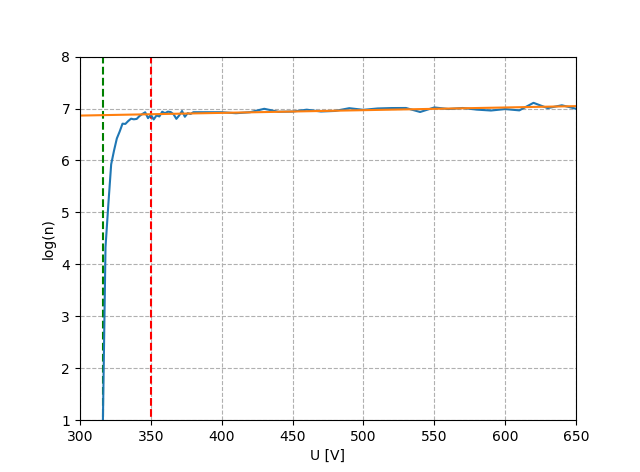
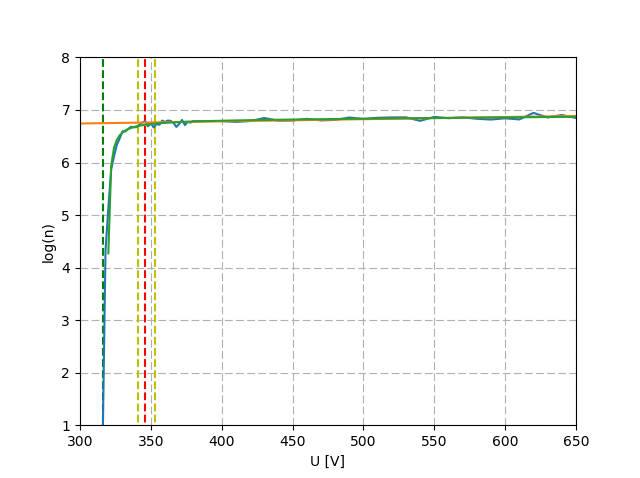
GM fertig?

diff --git a/T07/Protokoll/Gasdetektorenmo.tex b/T07/Protokoll/Gasdetektorenmo.tex
@@ -174,7 +174,7 @@ $n_{1\mu s}$ & $10603 \pm 103$ & $5259\pm 73$ \\
 \hline 
 $n_{2ms}$ & $8248\pm 91$ & $4599\pm 68$ \\
 \hline 
-$\tau [ms]$ & $1.882\pm 0.002 $ & $1.877\pm 0.004$ \\
+$\tau [\mu s]$ & $324\pm 97 $ & $1.877\pm 0.004$ \\
 \hline
 \end{tabular}
 \label{tab:Totzeitstufe}
@@ -196,14 +196,51 @@ Eine gewichtete Mittelung der $\tau$ ergibt:
 \subsubsection{Charakteristik}
 \begin{figure}
 \centering
-\includegraphics[scale=0.5]{Bilder/GMlinear.PNG}
-\includegraphics[scale=0.5]{Bilder/GMlog.PNG}
+\includegraphics[scale=1]{Bilder/GMlinear.PNG}
+\includegraphics[scale=1]{Bilder/GMlog.PNG}
 \caption{...}
 \label{fig:GMCharakteristik}
 \end{figure}
-Die Ergebnisse der Charakteristikmessung sind in Abbildung \ref{fig:GMCharakteristik} dargestellt.\\
-Mit zunehmender Spannung steigt die Messrate exponentiell, da immer mehr Ereignisse mit kleineren Energien registriert werden. Daher Müssen die Daten noch logarythmisiert werden, um das Plateau zu erkennen.\\
-Nun wird an das Plateau ein Geradenfit angepasst und visuell abgeschätzt, wenn diese Gerade erreicht wird. Der so 
+Die Ergebnisse der Charakteristikmessung sind in Abbildung \ref{fig:GMCharakteristik} dargestellt. Diese wurden bereits mithlife von Gleichung \ref{Auslosungszeit} von der Totzeit bereinigt.
+Außerdem wurde mithilfe der Rauschmessung der Offset des Untergrundrauschens abgezogen.\\
+Mit zunehmender Spannung steigt die Messrate exponentiell, da immer mehr Ereignisse mit kleineren Energien registriert werden. Daher Müssen die Daten noch logarythmisiert werden, um das Plateau erkennen zu können.\\
+Der relativ große Fehler auf die Totzeit ist dabei von systematischer Natur, er verschiebt also die Werte in die gleiche Richtung. Da das Plateau in der logarythmischen Sklaierung eben ist, verschiebt er die Werte um nahezu den gleichen Faktor, womit sich die Position der Einsatz- und Geiger-Spannung nicht nennenswert ändert. Der Fehler kann also für die Bestimmung dieser vernachlässigt werden.
+
+\paragraph{Bestimmung der Geiger-Spannung}
+\begin{figure}
+\centering
+\includegraphics[scale=1]{Bilder/GMGeradenfit.PNG}
+\caption{...}
+\label{fig:GMGeradenfit}
+\end{figure}
+
+\begin{figure}
+\centering
+\includegraphics[scale=1]{Bilder/GMKurvenfit.PNG}
+\caption{...}
+\label{fig:GMKurvenfit}
+\end{figure}
+
+Anhand der logarythmisierten Daten wird nun die Geiger-Spannung $U_G$ bestimmt. Dazu  wurde als erstes abgeschätzt, dass das Plateau spätestens bei $\SI{360}{V}$ erreicht wird und ein Geradenfit an die Daten überhalb dieser Spannung angepasst. Dieser ist in Abbildung \ref{fig:GMGeradenfit} zu sehen.\\
+Um nun den Anfang des Plateaus bestimmen zu können, wird außerdem noch ein Fit der Form
+\begin{equation*}
+y = \dfrac{a}{x+d} + b\cdot x + c
+\end{equation*}
+an die Daten angefitted. Es wurde hier eine $\dfrac{1}{x}$ Funktion gewählt, da es wegen der wenigen Datenpunkte, die groß von der Plateaugeraden abweichen, sehr schwierig gewesen ist eine Funktion an die Daten anzupassen und diese Funktion die einzige ist, bei der der Fit geglückt ist und die Umgebung der Geigerfrequenz gut beschreibt. Das Ergebnis ist in Abbildung \ref{fig:GMKurvenfit} dargestellt.\\
+$U_G$ wird bestimmt, indem die Spannung gesucht wird, ab der die beiden Anpassungen innerhalb ihrer Unsicherheiten überseinstimmen. Es muss aber beachtet werden, dass die Anpassungen korrelieren, da sie aus demselben Datensatz stammen. Der Einfachheit halber wird angenommen, dass der Fehler des Linearen Fits vollständig mit dem des$\dfrac{1}{x}$-Fit korreliert, der denselben linearen Term enthält. Ist der tatsächliche lineare Fit beispielsweise leicht nach oben verschoben, so ist mit dieser Annahme der echte $\dfrac{1}{x}$-Fit ebenfalls um den gleichen Faktor nach oben verschoben. Somit ergibt sich der Abstandsfehler zwischen den beiden Fits als quadratische Differenz der beiden Unsicherheiten.\\
+Den Fehler auf $U_G$ erhält man aus der Verschiebemethode. Die beiden Fits werden also um ihre Fehler nach oben oder unten verschoben und ein neuer Wert für $U_G$ mit der oben beschriebenen Methode bestimmt.\\
+Mit dieser Methode ergibt sich:
+\begin{equation*}
+\boxed{U_G = (346_{-5}^{+7})\si{V}}
+\end{equation*}
+\paragraph{Bestimmung der Einsatz-Spannung}
+Im Gegensatz zu $U_G$ lässt sich die Einsatz-Spannung $U_E$ direkt aus den Daten ablesen, da diese Spannung sich genau an der Stelle befindet, an der zum ersten mal ein Puls gemessen wird. Dies war der Fall bei
+\begin{equation*}
+\boxed{U_G = \SI{316\pm 1}{V}}
+\end{equation*}
+Der Fehler ergibt sich durch die Einstellgenauigkeit der Hochspannung.
+
+\subsubsection{Zusammenfassung}
 
 \subsection{Proportionalzähler}
 

diff --git a/T07/Auswertung/GM/GmCharakteristik.py b/T07/Auswertung/GM/GmCharakteristik.py
@@ -42,28 +42,46 @@ x = np.array(x)
 y = np.array(y)
 
 #Totzeitkorrektur
-ydot =y/10
-y = y/(1.-ydot*0.0018)
 y = y-1
+ydot =y/10
+y = y/(1.-ydot*(0.000324))
 
 logy = np.log(y)
-plateau = 27
+plateau = 32
 xplateau = x[plateau:]
 yplateau = y[plateau:]
+logyplateau = logy[plateau:]
 UE = 316
-UG = 350
+UG = 353
 
 
 sy = np.sqrt(x)
 slogy = 1./y * sy
 
 def f(a,x):
-    return a[0]+a[1]*x+a[2]*x**2+a[3]*x**3+a[4]*x**4+a[5]*x**5
+    return a[0]/(x-a[3])+a[1]*x+a[2]
 
-#var,svar,chi = p.fitte_bel_function(x[11:34],logy[11:34],slogy[11:34],f,[8,-100,10000,300,1,1,1])
+x1 = 11
+x2 = 70
+
+var,svar,chi, corr,out= p.fitte_bel_function(x[x1:x2],logy[x1:x2],slogy[x1:x2],f,[-1000,0,7,300])
+print var, chi
+a,sa,b,sb,chi2,corr2 = p.lineare_regression(xplateau,np.log(yplateau),slogy[plateau:])
+xw= np.arange(325,500)
+f2 = f(var,xw)
+f1 = a*xw + b
+df1 = np.sqrt((xw*sa)**2+sb**2+2*corr2*sa*sb)
+df2 = np.sqrt((svar[0]/(xw-var[3]))**2 + (xw*svar[1])**2 + svar[2]**2 + (var[0]/(xw-var[3])**2 * svar[3])**2-(xw*sa)**2-sb**2)
+df3 = np.sqrt((svar[0]/(xw-var[3]))**2 + (var[0]/(xw-var[3])**2 * svar[3])**2)
+sigd = np.sqrt(df2**2)#+df1**2-2*np.corrcoef(f1,f2)[0][1]*df1*df2)
+UG = np.argmin(abs(abs((f2)-(f1))-sigd)) + 325
+print UG
+UGup = np.argmin(abs(abs((f2+df2)-(f1+df1))-sigd)) + 325
+UGdown = np.argmin(abs(abs((f2-df2)-(f1-df1))-sigd)) + 325
+print UG,UGup,UGdown
+
 
 if 1:#logplot
-    a,sa,b,sb,chi,rest = p.lineare_regression(xplateau,np.log(yplateau),slogy[plateau:])
     plt.figure(1)
     ax = plt.subplot(111)
     ax.set_xlabel("U [V]")
@@ -72,11 +90,55 @@ if 1:#logplot
     ax.grid(linestyle='--')
     plt.plot(x,logy)
     plt.plot(x,a*x+b)
-   # plt.plot(x[11:34],f(var,x[11:34]))
+    plt.plot(x[x1+1:x2],f(var,x[x1+1:x2]))
     plt.vlines(UE,0,8,linestyle='--',color = 'g')
     plt.vlines(UG,0,8,linestyle='--',color = 'r')
+    plt.vlines(UGup,0,8,linestyle='--',color = 'y')
+    plt.vlines(UGdown,0,8,linestyle='--',color = 'y')
     
-if 1:#plot
+if 1:
+    plt.figure(3)
+    ax1=plt.subplot(211)
+    ax1.axis([300,650,4,7.5])
+    ax1.set_ylabel("U[V]")
+    plt.figtext(0.6,0.65,'Modell: y = a*x+b'+
+                '\n a= '+str(np.round(a,5))+' +/- '+str(np.round(sa,5))+'\n'
+                +' b= '+str(np.round(b,2))+' +/- '+str(np.round(sb,2))+' \n'
+                +'$\chi ^2 / ndof$= ' + str(np.round(chi2/len(xplateau), 2)))
+    plt.errorbar(x[11:],logy[11:],yerr = slogy[11:],fmt='.')
+    plt.plot(x,a*x+b,color = 'r')
+    ax2=plt.subplot(212,sharex=ax1)
+    ax2.set_xlabel("t[s]")
+    ax2.set_ylabel("Residuen")
+    plt.errorbar(xplateau,logyplateau-(a*xplateau+b),yerr = slogy[plateau:],fmt='.')
+    x_r = np.array(plt.xlim())
+    y_r = np.array([0, 0])
+    plt.plot(x_r, y_r, color='r')
+    
+if 1:
+    plt.figure(4)
+    ax1=plt.subplot(211)
+    ax1.axis([300,650,4,7.5])
+    ax1.set_ylabel("U[V]")
+    plt.figtext(0.5,0.6,'Modell: y = a/(x-d) + b*x + c \n'+
+                'a= '+str(np.round(var[0],2))+' +/- '+str(np.round(svar[0],2))+'\n'
+                +'b= '+str(np.round(var[1],5))+' +/- '+str(np.round(svar[1],5))+'\n'
+                +'c= '+str(np.round(var[2],2))+' +/- '+str(np.round(svar[2],2))+'\n'
+                +'d= '+str(np.round(var[3],2))+' +/- '+str(np.round(svar[3],2))+'\n'
+                +'$\chi ^2 / ndof$= ' + str(np.round(chi, 2)))
+    plt.errorbar(x[11:],logy[11:],yerr = slogy[11:],fmt='.')
+    plt.plot(x[x1+1:x2],f(var,x[x1+1:x2]),color = 'g')
+    
+    ax2=plt.subplot(212,sharex=ax1)
+    ax2.set_xlabel("t[s]")
+    ax2.set_ylabel("Residuen")
+    plt.errorbar(x[x1+2:x2],logy[x1+2:x2]-f(var,x[x1+2:x2]),yerr = slogy[x1+2:x2],fmt='.')
+    x_r = np.array(plt.xlim())
+    y_r = np.array([0, 0])
+    plt.plot(x_r, y_r, color='r')
+
+
+if 0:#plot
     a,sa,b,sb,chi,rest = p.lineare_regression(xplateau,yplateau,sy[plateau:])
     plt.figure(2)
     ax = plt.subplot(111)

diff --git a/T07/Auswertung/GM/PropChAm.py b/T07/Auswertung/GM/PropChAm.py
@@ -29,14 +29,48 @@ file.close()
 x = np.array(x)
 y = np.array(y)
 logy = np.log(y)
-plateau = 38
+plateau = 36
 plateauend = 58
 xplateau = x[plateau:plateauend]
 yplateau = y[plateau:plateauend]
+logyplateau = logy[plateau:plateauend]
 
-sy = np.sqrt(x)
+sy = np.sqrt(y)
 slogy = 1./y * sy
 
+
+a,sa,b,sb,chi,rest = p.lineare_regression(xplateau,np.log(yplateau),slogy[plateau:plateauend])
+if 1:
+    plt.figure(3)
+    ax1=plt.subplot(211)
+    ax1.axis([300,1300,9,10])
+    ax1.set_ylabel("U[V]")
+    plt.figtext(0.6,0.65,'Modell: y = a*x+b'+
+                '\n a= '+str(np.round(a,6))+' +/- '+str(np.round(sa,6))+'\n'
+                +' b= '+str(np.round(b,3))+' +/- '+str(np.round(sb,3))+' \n'
+                +'$\chi ^2 / ndof$= ' + str(np.round(chi/len(xplateau), 2)))
+    plt.errorbar(x[11:],logy[11:],yerr = slogy[11:],fmt='.')
+    plt.plot(x,a*x+b,color = 'r')
+    ax2=plt.subplot(212,sharex=ax1)
+    ax2.set_xlabel("t[s]")
+    ax2.set_ylabel("Residuen")
+    plt.errorbar(xplateau,logyplateau-(a*xplateau+b),yerr = slogy[plateau:plateauend],fmt='.')
+    x_r = np.array(plt.xlim())
+    y_r = np.array([0, 0])
+    plt.plot(x_r, y_r, color='r')
+    
+
+if 1:#logplot
+    
+    plt.figure(1)
+    ax = plt.subplot(111)
+    ax.set_xlabel("U [V]")
+    ax.set_ylabel("log(n)")
+    ax.axis([250,2000,8,12])
+    ax.grid(linestyle='--')
+    plt.plot(x,logy)
+    plt.plot(x,a*x+b)
+    
 if 1:#plot
     a,sa,b,sb,chi,rest = p.lineare_regression(xplateau,yplateau,sy[plateau:plateauend])
     plt.figure(2)
@@ -46,16 +80,4 @@ if 1:#plot
     ax.grid(linestyle='--')
     ax.axis([250,2000,0,120000])
     plt.plot(x,y)
-    plt.plot(x,a*x+b)
-    
-
-if 1:#logplot
-    a,sa,b,sb,chi,rest = p.lineare_regression(xplateau,np.log(yplateau),slogy[plateau:plateauend])
-    plt.figure(1)
-    ax = plt.subplot(111)
-    ax.set_xlabel("U [V]")
-    ax.set_ylabel("log(n)")
-    ax.axis([250,2000,8,12])
-    ax.grid(linestyle='--')
-    plt.plot(x,logy)
     plt.plot(x,a*x+b)

diff --git a/T07/Auswertung/GM/Praktikummo.py b/T07/Auswertung/GM/Praktikummo.py
@@ -13,6 +13,7 @@ import scipy
 import scipy.fftpack
 import scipy.odr
 import StringIO
+import matplotlib.pyplot as plt
 
 def lese_lab_datei(dateiname):
     '''
@@ -337,7 +338,8 @@ def fitte_bel_function_xy(x, y, ex, ey, func, startwerte):
     data   = scipy.odr.RealData(x, y, sx=ex, sy=ey)
     odr    = scipy.odr.ODR(data, model, beta0=startwerte)
     output = odr.run()
-    return output.beta, output.sd_beta, output.res_var
+    corr = output.cov_beta[0,1]/np.sqrt(output.cov_beta[0,0]*output.cov_beta[1,1])
+    return output.beta, output.sd_beta, output.res_var, corr
 
 def fitte_bel_function(x, y, ey, func, startwerte):
     """gibt wert,fehler,chi/ndof zurueck"""
@@ -345,4 +347,19 @@ def fitte_bel_function(x, y, ey, func, startwerte):
     data   = scipy.odr.RealData(x, y, sy=ey)
     odr    = scipy.odr.ODR(data, model, beta0=startwerte)
     output = odr.run()
-    return output.beta, output.sd_beta, output.res_var
+    corr = output.cov_beta
+    return output.beta, output.sd_beta, output.res_var,corr,output
+
+def Anpassung(x,y,xerr,yerr,func,par):
+    ax1=plt.subplot(211)
+    ax1.set_ylabel("U[V]")
+    plt.errorbar(x,y,xerr = xerr,yerr = yerr,fmt='.')
+    plt.plot(x,func(par,x),color = 'r')
+    
+    ax2=plt.subplot(212,shsharex=ax1)
+    ax2.set_xlabel("t[s]")
+    ax2.set_ylabel("Residuen")
+    plt.errorbar(x,y-func(par,x),yerr = yerr,fmt='.')
+    x_r = np.array([x[0], x[-1]])
+    y_r = np.array([0, 0])
+    plt.plot(x_r, y_r, color='r')

diff --git a/T07/Auswertung/GM/Totzeitstufe.py b/T07/Auswertung/GM/Totzeitstufe.py
@@ -10,29 +10,43 @@ import numpy as np
 import matplotlib.pyplot as plt
 import csv
 
+
+T = 60.
 N1 = 10603.#1mus
 N2 = 8284.#2ms
 
 if 0:
+    T =10
     N1 = 1788.
     N2 = 1381.
 
 if 0:
-    N1 = 1836.
-    N2 = 600.
+    N1 = 10715.
+    N2 = 8237.
+    
+if 0:
+    N1 = 10512.
+    N2 = 8213.
     
 if 0:
     N1 = 5359.
     N2 = 4599.
 
+m1 = N1/T
+m2 = N2/T
+sm1 = np.sqrt(N1)/T
+sm2 = np.sqrt(N2)/T
+
 T2 = 0.001908 #1.908ms
 
-t = 1./N1 - 1./N2 + T2
+t = 1./m1 - 1./m2 + T2
 
-sigt = np.sqrt((np.sqrt(N1)/N1**2)**2 + (np.sqrt(N2)/N2**2)**2)
+sigt = np.sqrt((sm1/m1**2)**2 + (sm2/m2**2)**2)
 
 print t,sigt,N1,N2
 
 print p.gew_mittelwert(np.array([520,450]),np.array([50,30]))
 
-print p.gew_mittelwert(np.array([1877,1882]),np.array([4,2]))
+print p.gew_mittelwert(np.array([324,223,310]),np.array([97,97,98]))
+
+print sigt/t
